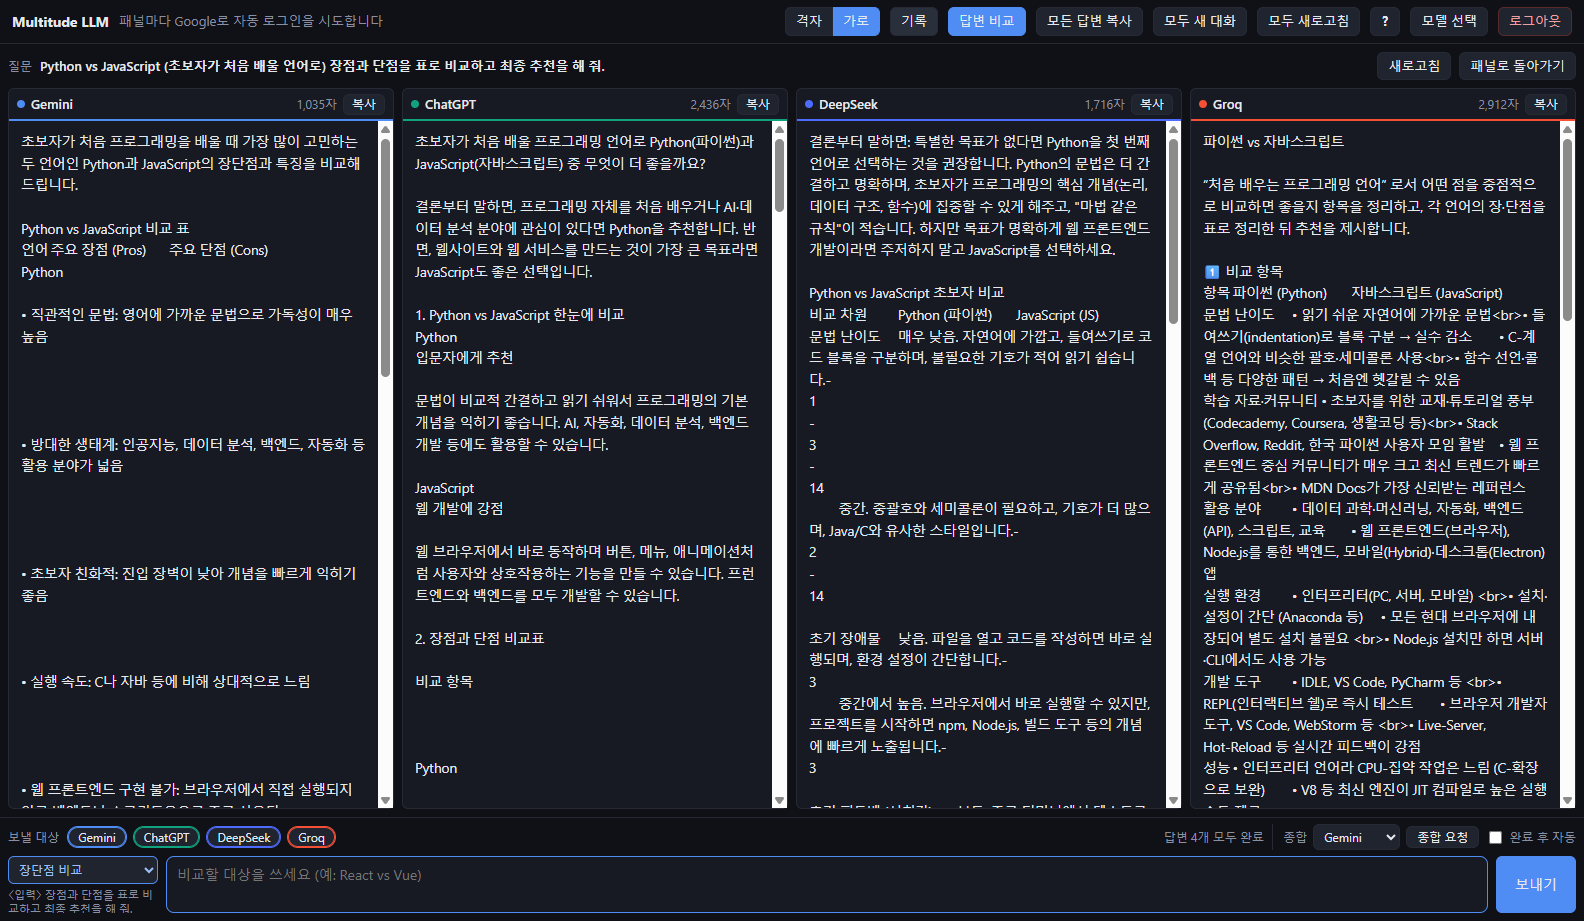
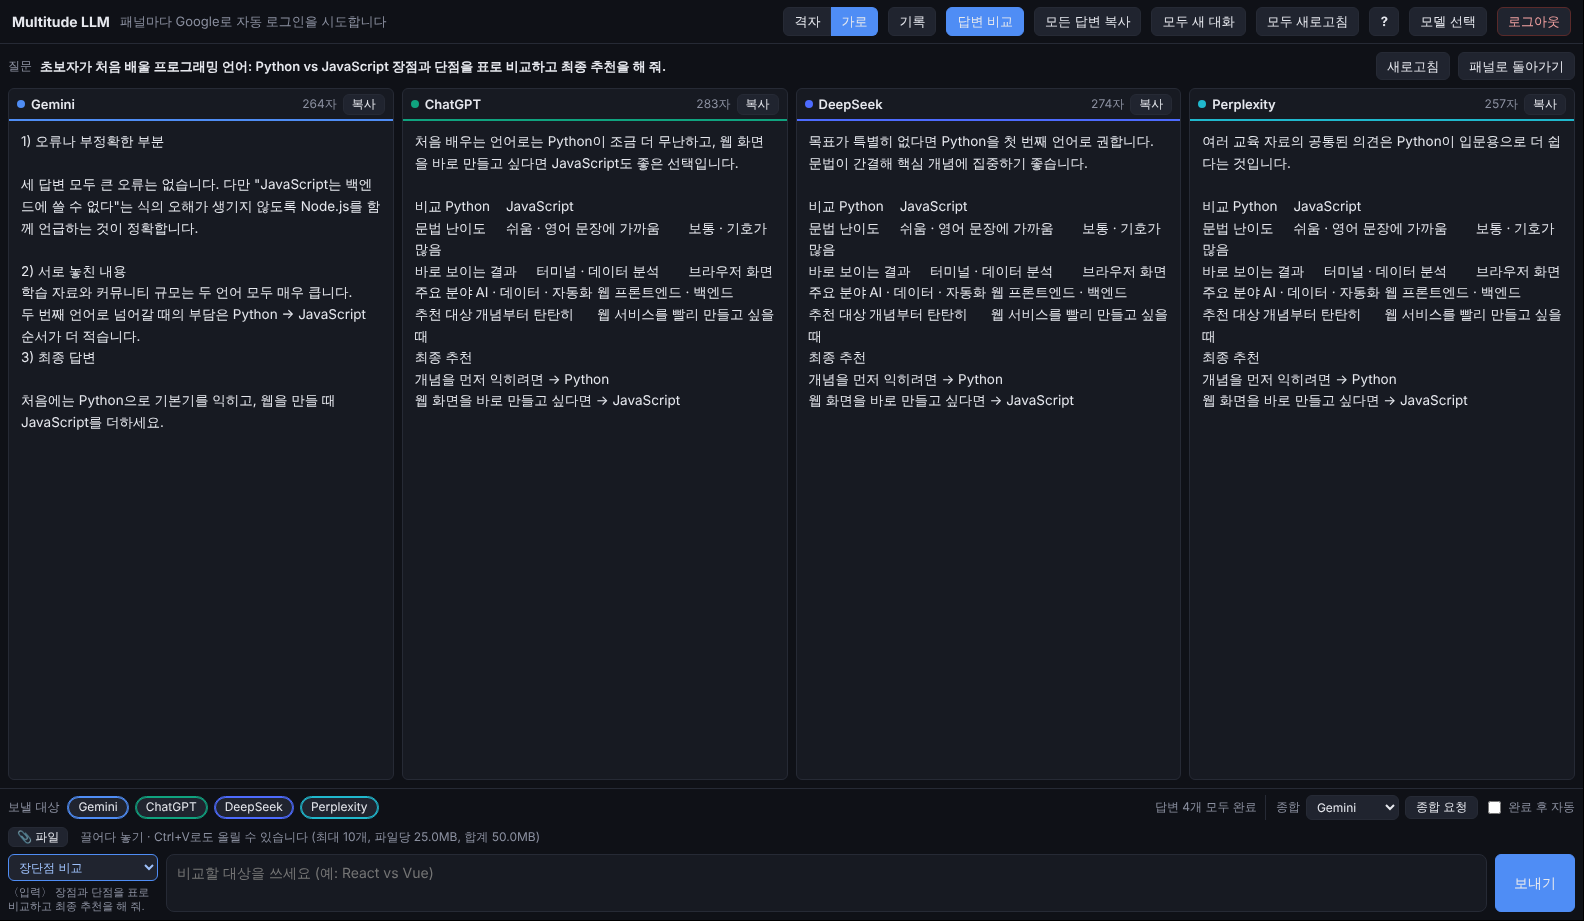
README: build steps, all v0.2/v0.3 changes, new screenshots
- Add the PowerShell steps to rebuild the installer (pull, clear dist,
  npm install, run build-win.ps1 in the current session) and why dist/
  still shows an old version until rebuilt.
- Add a version table and describe Mistral, the 4-of-9 picker, file
  attachments, the Chrome extension and the service-worker fix.
- Replace all screenshots (9 models, row layout, synthesis, compare,
  history with attachments, settings) and add attachment and Chrome
  extension shots. Panel contents are neutral test pages with sample
  answers; the README says so.

Claude-Session: https://claude.ai/code/session_0141LVubmPdBrkVGoXCnJr8T

diff --git a/README.md b/README.md
@@ -2,54 +2,75 @@
 
 Gemini · ChatGPT · DeepSeek · Perplexity · Grok · Mistral · Qwen · Poe · Duck.ai 웹 채팅 중 **최대 4개**를 한 화면에 띄워 같은 질문(과 이미지·문서 파일)을 동시에 보내고 답변을 비교합니다.
 
-- **Windows 앱** (Electron) — 로그인은 Google 계정 하나로 합니다.
-- **크롬 확장 프로그램** — 크롬에 이미 로그인된 각 서비스 계정을 그대로 씁니다. [설치 방법](#크롬-확장-프로그램)
+- **Windows 앱** (Electron) — 로그인은 Google 계정 하나로 합니다. [설치](#설치-windows) · [직접 빌드](#설치-파일-직접-만들기-windows)
+- **크롬 확장 프로그램** — 크롬에 이미 로그인된 각 서비스 계정을 그대로 씁니다. [설치](#크롬-확장-프로그램)
 
 API 키 없이 각 서비스의 무료 웹 채팅을 그대로 씁니다. 처음 고른 모델은 Gemini · ChatGPT · DeepSeek · Perplexity이고, 격자(2×2)·가로(1×4) 배치를 고를 수 있습니다.
 
-> 아래 스크린샷은 v0.1(4개 서비스) 화면입니다.
-
 ![네 AI에 동시에 질문하고 답변을 나란히 받는 화면](docs/screenshots/02-ask-all.png)
+
+## 버전별 변경 사항
+
+| 버전 | 내용 |
+|---|---|
+| **v0.3.0** | Mistral(`chat.mistral.ai/work`) 추가 — 9개 서비스. 공통 입력창 **파일 첨부**(끌어다 놓기 · Ctrl+V · 📎). 크롬 확장에서 Perplexity처럼 서비스 워커가 있는 사이트가 패널에 안 뜨던 문제 수정 |
+| **v0.2.0** | Groq → **Grok**(grok.com). **Perplexity · Qwen · Poe · Duck.ai** 추가, **최대 4개 선택**(처음 값 Gemini · ChatGPT · DeepSeek · Perplexity). **크롬 확장 프로그램** 추가 |
+| v0.1.0 | Gemini · ChatGPT · DeepSeek · Groq 4개, Windows 앱 첫 배포 |
+
+자세한 내용은 [docs/release-notes](docs/release-notes)를 보세요.
 
 ## 한눈에 보기
 
-> 스크린샷의 계정 정보(이름·프로필)와 이전 대화 목록은 흐리게 처리했습니다.
+> 스크린샷의 패널 안은 실제 서비스 화면이 아니라 **테스트용 채팅 페이지와 예시 답변**입니다. 앱 화면(툴바·패널 머리줄·공통 입력창·비교·기록·설정)은 실제 앱 그대로입니다.
+> 실제로는 각 패널에 해당 서비스의 웹 채팅이 그대로 열립니다.
 
 ### 1. 모델 고르기
 
-Google로 로그인한 뒤 쓸 모델을 9개 중 최대 4개까지 고릅니다. 고른 모델만 패널로 열리고, 각 서비스에는 "Google로 계속하기"로 자동 로그인합니다.
+쓸 모델을 9개 중 최대 4개까지 고릅니다. 4개를 고르면 나머지는 선택이 막히고 "4 / 4 선택"이 표시됩니다. 고른 모델만 패널로 열리고, Windows 앱은 각 서비스에 "Google로 계속하기"로 자동 로그인합니다.
 
 ![모델 선택 화면](docs/screenshots/01-model-picker.png)
 
 ### 2. 한 번에 질문하기
 
-아래 공통 입력창에 쓰면 켜 둔 AI 모두에게 동시에 보냅니다. 왼쪽 아래 **템플릿**(예: 장단점 비교)을 고르면 질문을 자동으로 감싸 줍니다. 패널마다 "답변 중… → 답변 완료 · N자"가 표시됩니다.
+아래 공통 입력창에 쓰면 켜 둔 AI 모두에게 동시에 보냅니다. 왼쪽 아래 **템플릿**(예: 장단점 비교)을 고르면 질문을 자동으로 감싸 줍니다. 패널마다 "답변 중… → 답변 완료 · N자"가 표시됩니다. 위쪽 **격자 / 가로**로 2×2 · 1×4 배치를 바꿉니다.
 
 ![네 패널에 동시에 질문한 화면](docs/screenshots/02-ask-all.png)
 
-### 3. 교차검토(종합)
+### 3. 파일 첨부
 
-**종합 요청**을 누르면 다른 AI들의 답변을 모아, 고른 AI 하나(여기서는 Gemini)에게 오류·빠진 내용·최종 답변을 정리해 달라고 보냅니다. "완료 후 자동"을 켜면 모든 답변이 끝나는 순간 알아서 요청합니다.
+이미지·문서를 공통 입력창에 **끌어다 놓거나**, **Ctrl+V**로 붙여 넣거나(스크린샷), **📎 파일** 버튼으로 올리면 보낼 대상 패널마다 첨부해서 보냅니다. 받지 않는 종류가 있는 서비스는 올릴 때 미리 알려 주고(예: "Duck.ai은(는) 문서 빼고 보냄"), 보낸 뒤 패널 머리줄에 `📎 일부 파일은 빼고 보냄` · `📎 첨부 없이 보냄`으로 표시합니다. [자세히](#파일-첨부)
+
+![파일을 첨부해 네 AI에 보낸 화면](docs/screenshots/07-attachments.png)
+
+### 4. 교차검토(종합)
+
+**종합 요청**을 누르면 다른 AI들의 답변을 모아, 고른 AI 하나(여기서는 Gemini)에게 오류·빠진 내용·최종 답변을 정리해 달라고 보냅니다. "완료 후 자동"을 켜면 모든 답변이 끝나는 순간 알아서 요청합니다. 종합 요청에는 첨부 파일을 다시 보내지 않습니다.
 
 ![Gemini가 다른 세 AI의 답변을 종합하는 화면](docs/screenshots/03-synthesis.png)
 
-### 4. 답변 비교
+### 5. 답변 비교
 
 **답변 비교**(Ctrl+Shift+D)는 마지막 질문과 각 AI의 최신 답변을 칸별로 나란히 보여 줍니다. 칸마다 Markdown(표·코드 블록 유지)으로 복사할 수 있습니다.
 
 ![답변 비교 화면](docs/screenshots/04-compare.png)
 
-### 5. 기록
+### 6. 기록
 
-**기록**(Ctrl+H)에는 보낸 질문과 각 답변·종합 결과가 저장됩니다. 검색, Markdown 복사, 질문 다시 쓰기를 할 수 있습니다. 기록은 이 PC에만 저장됩니다.
+**기록**(Ctrl+H)에는 보낸 질문과 각 답변·종합 결과, 첨부한 파일 이름이 저장됩니다(파일 내용은 저장하지 않음). 검색, Markdown 복사, 질문 다시 쓰기를 할 수 있습니다. 기록은 이 PC에만 저장됩니다.
 
 ![질문·답변 기록 화면](docs/screenshots/05-history.png)
 
-### 6. 설정 · 단축키
+### 7. 설정 · 단축키
 
 `?`(Ctrl+/) 화면에서 답변 대기 시간, 사이트 셀렉터 자동 갱신을 설정하고 단축키를 볼 수 있습니다.
 
 ![설정과 단축키 화면](docs/screenshots/06-settings-shortcuts.png)
+
+### 8. 크롬 확장 프로그램
+
+같은 화면을 크롬 탭 하나에서 씁니다. 각 서비스는 크롬에 로그인된 계정을 그대로 쓰고, 로그인이 필요한 패널은 머리줄의 **로그인 탭**으로 일반 탭에서 로그인합니다. [설치 방법](#크롬-확장-프로그램)
+
+![크롬 확장 프로그램 화면](docs/screenshots/08-chrome-extension.png)
 
 ## 크롬 확장 프로그램
 
@@ -85,15 +106,37 @@ Google로 로그인한 뒤 쓸 모델을 9개 중 최대 4개까지 고릅니다
 [Releases](https://github.com/dyj02056/multitude_llm_ai/releases)의 `MultitudeLLM-Setup-<버전>.exe`를 실행합니다.
 코드 서명이 없어서 처음 실행할 때 Windows SmartScreen 경고가 뜰 수 있습니다 ("추가 정보" → "실행").
 
-직접 만들려면:
+> `dist` 폴더의 설치 파일은 GitHub에 올라가지 않습니다(`.gitignore`). 코드를 새로 받았다면 아래처럼 **다시 빌드해야** 새 버전이 들어간 설치 파일이 생깁니다. 파일 이름의 버전은 `package.json`의 `version`을 따릅니다.
+
+## 설치 파일 직접 만들기 (Windows)
+
+저장소 폴더에서 연 **PowerShell** 창에서 차례로 실행합니다.
 
 ```powershell
-# 이미 열린 PowerShell 창에서 실행 (이 창에서만 스크립트 실행 허용)
+# 1) 최신 코드 받기
+git pull origin claude/magical-pasteur-ksk533
+
+# 2) 예전 빌드 결과(0.1.0 등) 지우기
+Remove-Item -Recurse -Force dist -ErrorAction SilentlyContinue
+
+# 3) 의존성 맞추기
+npm install
+
+# 4) 이 창에서만 스크립트 실행을 허용하고 빌드 실행
 Set-ExecutionPolicy -Scope Process -ExecutionPolicy Bypass
 .\scripts\build-win.ps1
 ```
 
-결과물은 `dist\MultitudeLLM-Setup-<버전>.exe`입니다. 아이콘은 `node scripts/make-icon.js`로 다시 만들 수 있습니다.
+- 1번의 브랜치 이름은 작업 중인 브랜치입니다. main에 병합한 뒤에는 `git pull origin main`을 씁니다.
+- 결과물은 `dist\MultitudeLLM-Setup-<버전>.exe`입니다 (지금 버전: 0.3.0). 처음에는 Electron을 내려받느라 몇 분 걸릴 수 있습니다.
+- 4번의 실행 허용은 그 PowerShell 창을 닫으면 사라집니다 (PC 설정은 바뀌지 않음).
+- `powershell -ExecutionPolicy Bypass -File ...` 형태는 PATH에 `powershell`이 없는 PC에서 `'powershell' 용어가 ... 인식되지 않습니다` 오류가 납니다. 위 4번처럼 열린 창에서 직접 실행하세요. 그래도 빌드 중 같은 오류가 나면 전체 경로로 실행합니다.
+
+  ```powershell
+  & "$env:SystemRoot\System32\WindowsPowerShell\v1.0\powershell.exe" -ExecutionPolicy Bypass -File scripts\build-win.ps1
+  ```
+- 아이콘은 `node scripts/make-icon.js`로 다시 만들 수 있습니다.
+- 태그(`v0.3.0` 등)를 푸시하면 GitHub Actions가 설치 파일과 확장 프로그램 zip을 만들어 Releases에 올립니다 (`.github/workflows/release.yml`).
 
 ## 코드 구조
 
